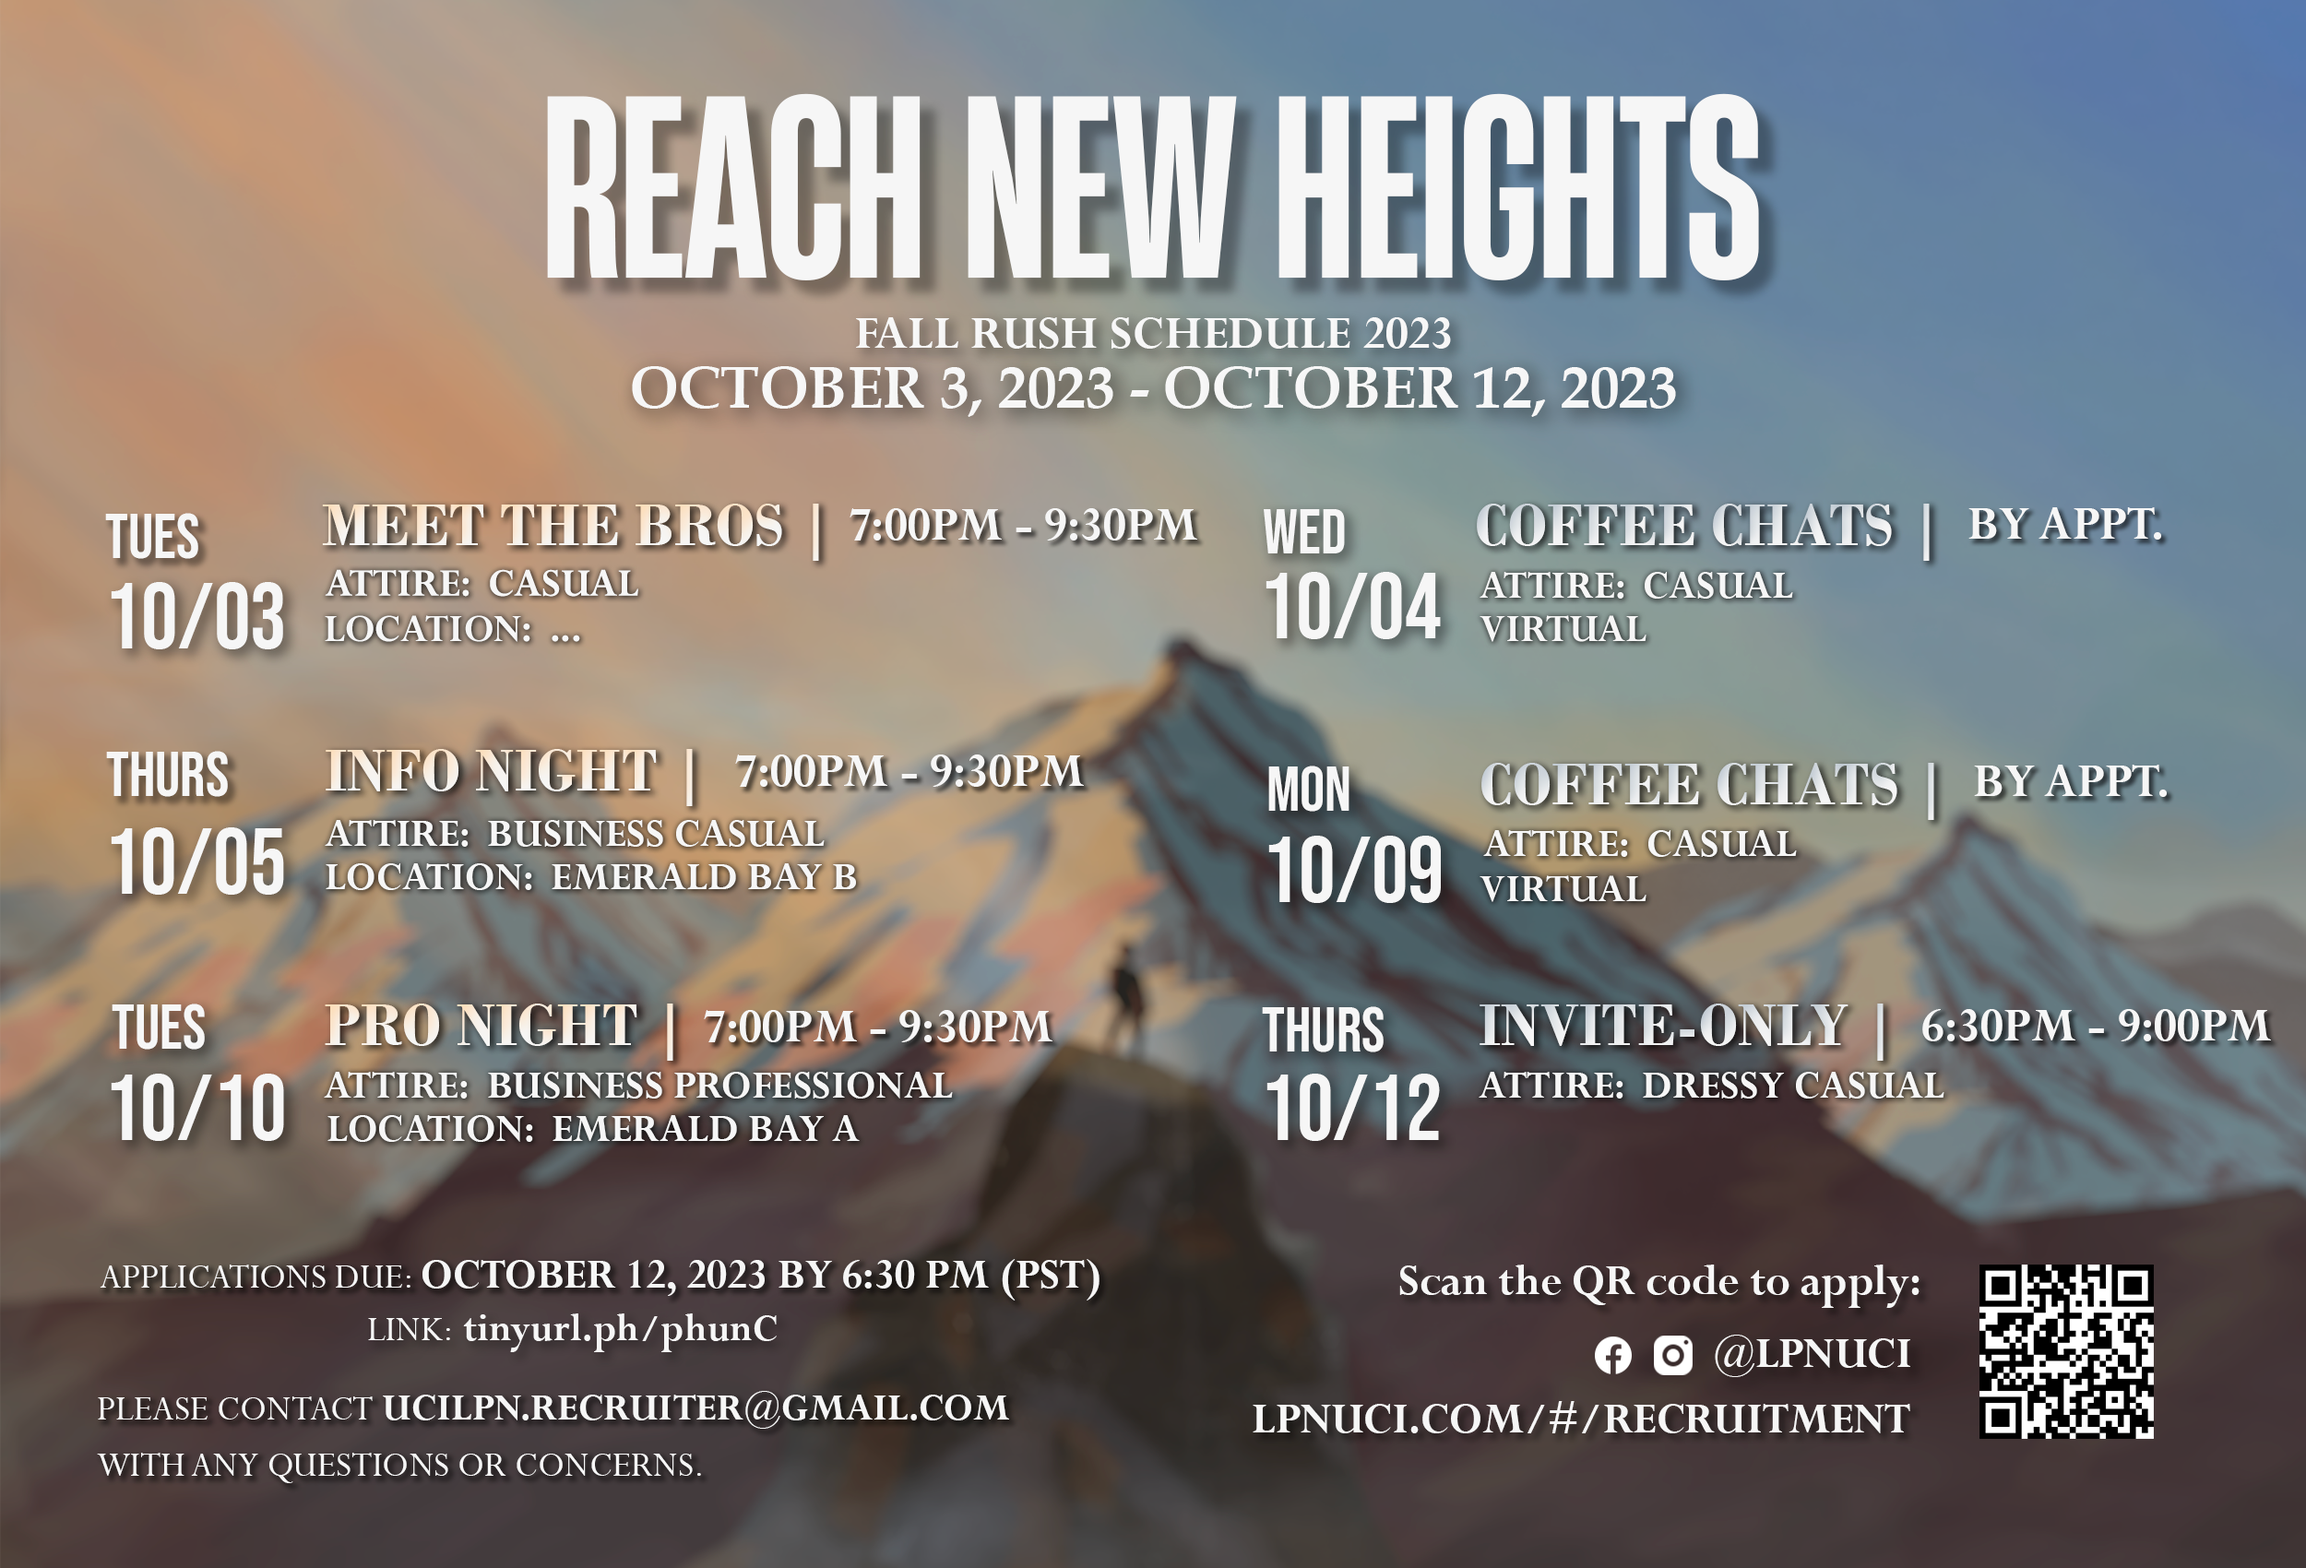
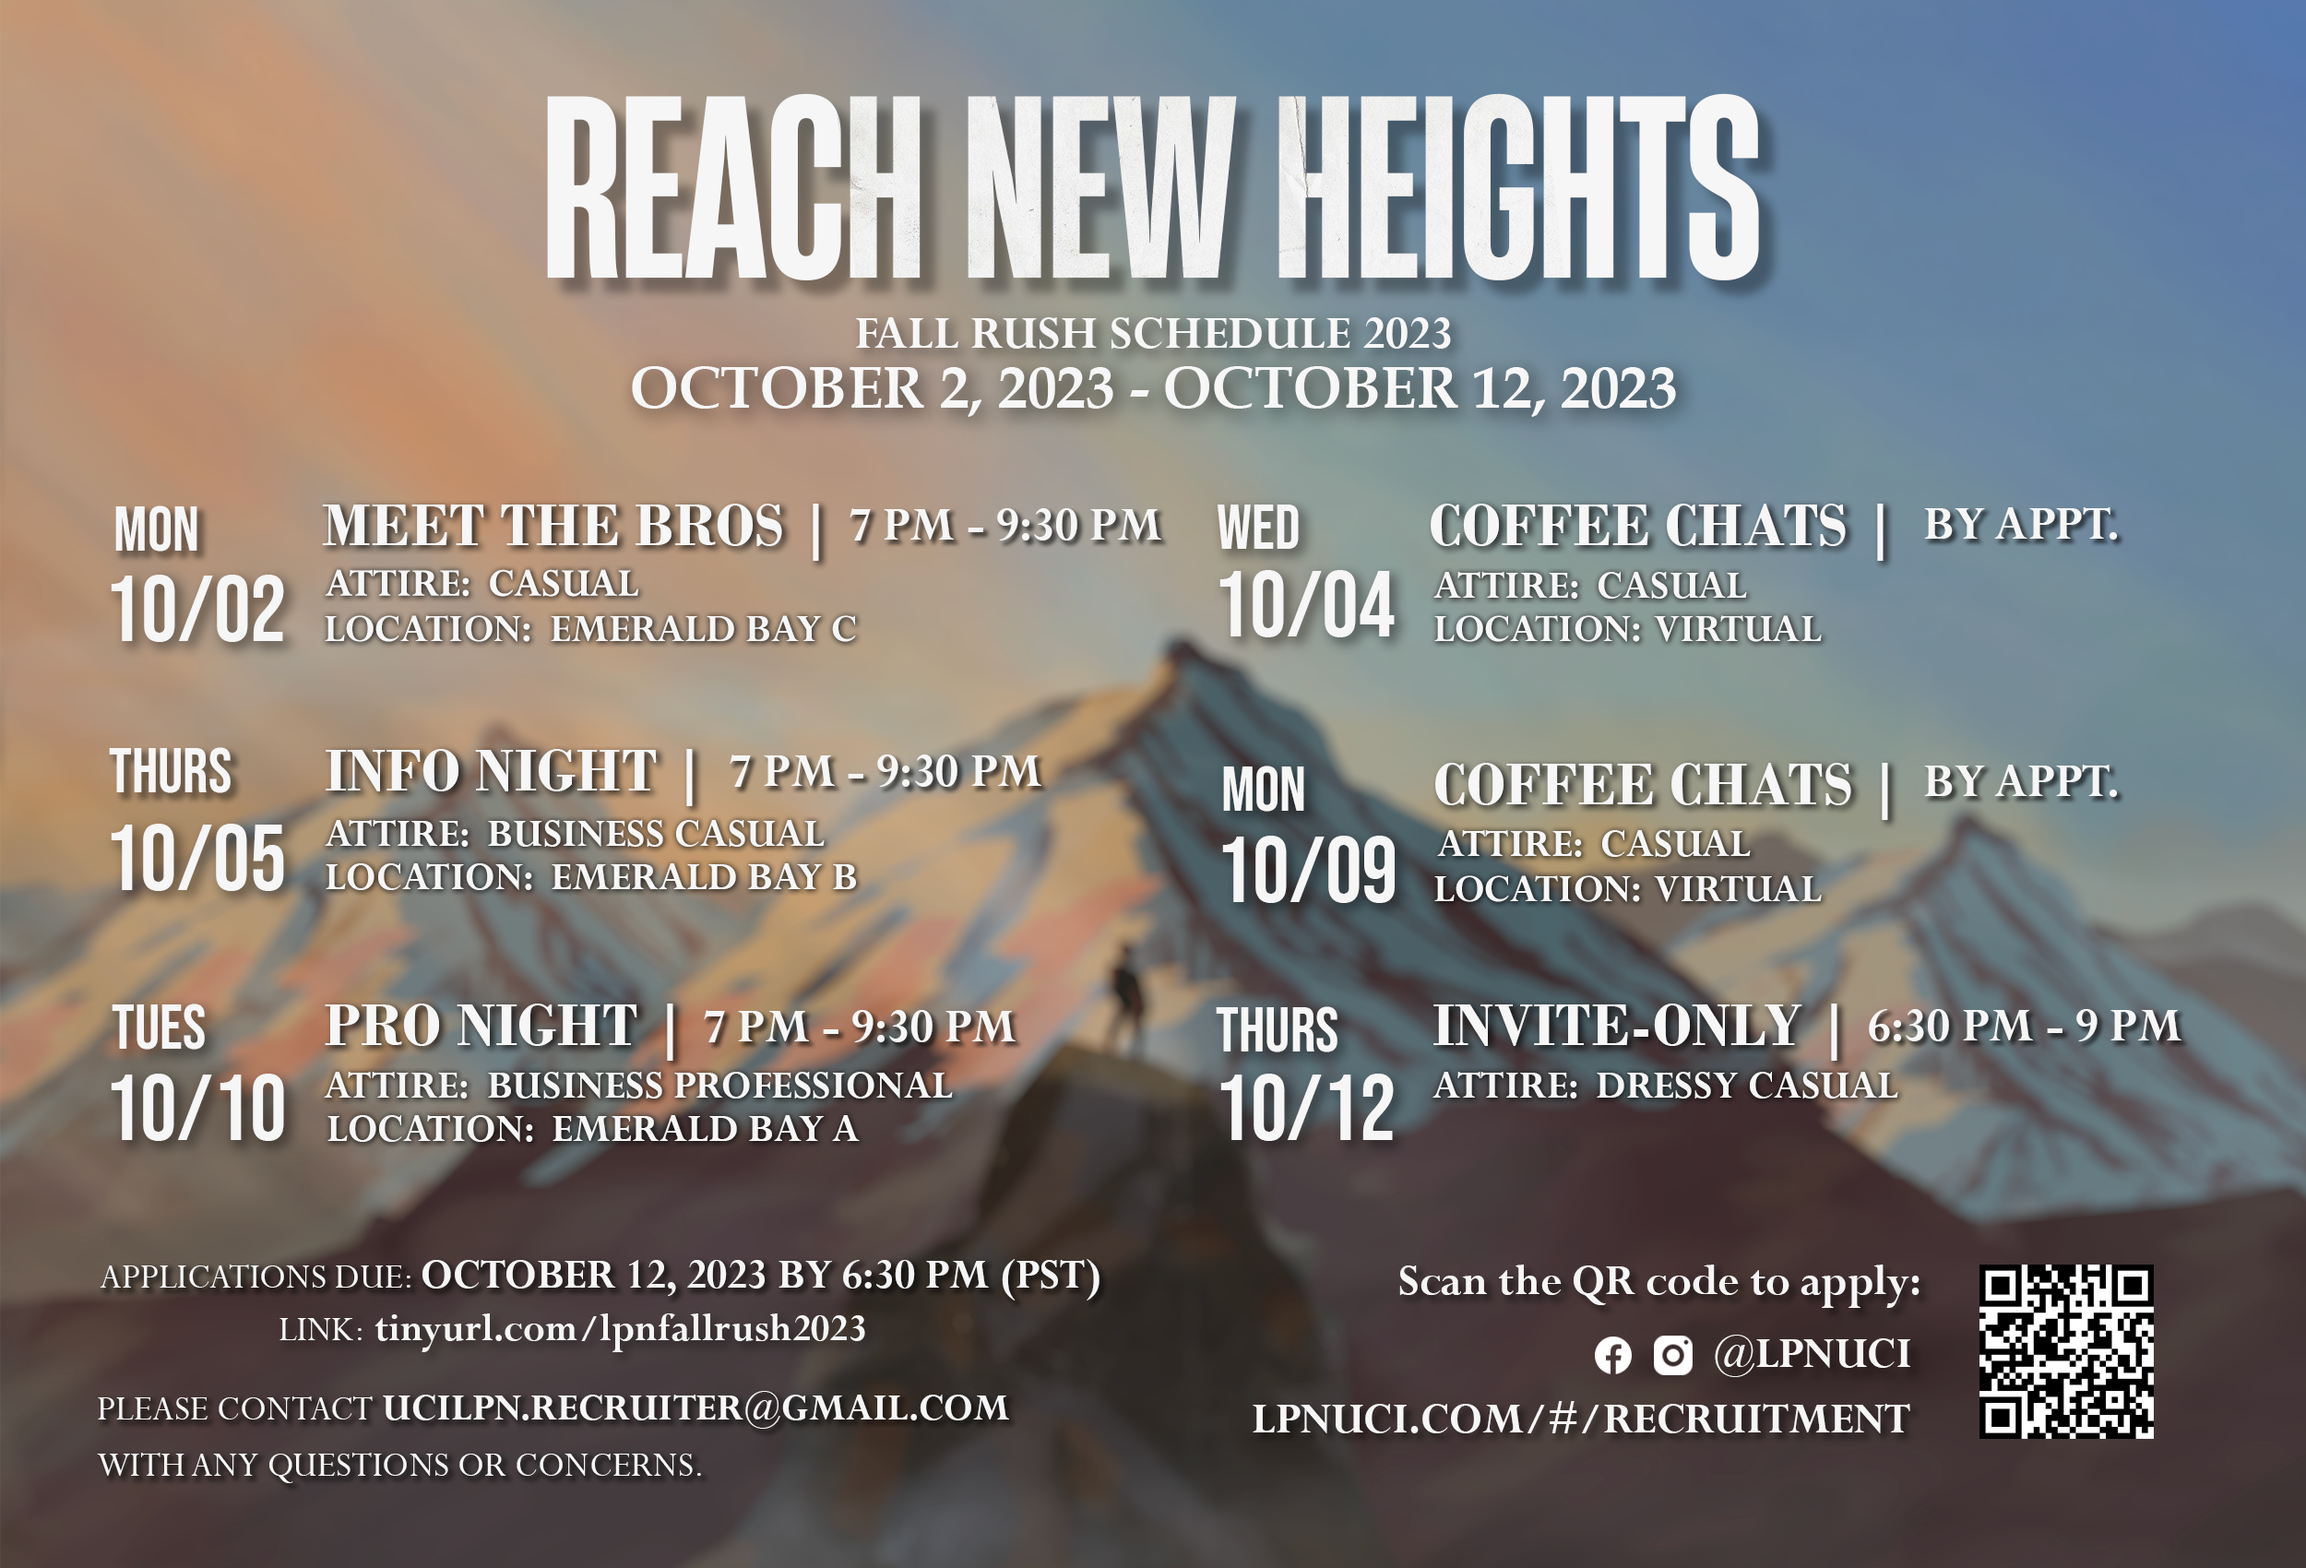
Fixed Rush Dates

diff --git a/src/components/pages/careers/CompanyLogos.js b/src/components/pages/careers/CompanyLogos.js
@@ -2,62 +2,70 @@ export const companyLogos = [
     {
         img: require('../../../assets/companyLogos/EY.png'),
         title: 'EY',
-        link: 'https://www.lpnuci.com/#/active-brothers/sydney-yu'
+        // link: 'https://www.lpnuci.com/#/active-brothers/sydney-yu'
+    },
+    {
+        img: require('../../../assets/companyLogos/Apsy_Transparent.png'),
+        title: 'Apsy',
     },
     {
         img: require('../../../assets/companyLogos/Accenture.png'),
         title: 'Accenture',
-        link: 'https://www.lpnuci.com/#/active-brothers/kayla-wong',
+        // link: 'https://www.lpnuci.com/#/active-brothers/kayla-wong',
+    },
+    {
+        img: require('../../../assets/companyLogos/Walmart.png'),
+        title: 'Walmart',
     },
     {
         img: require('../../../assets/companyLogos/Comcast_Black.png'),
         title: 'Comcast',
-        link: 'https://www.lpnuci.com/#/active-brothers/lilian-luu'
-    },
-    {
-        img: require('../../../assets/companyLogos/TikTok.png'),
-        title: 'TikTok',
-        link: 'https://www.lpnuci.com/#/active-brothers/kaylie-zhou'
+        // link: 'https://www.lpnuci.com/#/active-brothers/lilian-luu'
     },
     {
         img: require('../../../assets/companyLogos/Microsoft.png'),
         title: 'Microsoft',
-        link: 'https://www.lpnuci.com/#/active-brothers/ryan-miranda'
-    },   
+        // link: 'https://www.lpnuci.com/#/active-brothers/ryan-miranda'
+    },
+    {
+        img: require('../../../assets/companyLogos/Hajoca_Transparent.png'),
+        title: 'Hajoca',
+    },
+    {
+        img: require('../../../assets/companyLogos/Oppti.png'),
+        title: 'Oppti',
+    },
     {
         img: require('../../../assets/companyLogos/Deloitte.png'),
         title: 'Deloitte',
-        link: 'https://www.lpnuci.com/#/active-brothers/deena-toofan',
+        // link: 'https://www.lpnuci.com/#/active-brothers/deena-toofan',
     },
     {
         img: require('../../../assets/companyLogos/Salesforce.png'),
         title: 'Salesforce',
-        link: 'https://www.lpnuci.com/#/active-brothers/raymond-dinh'
+        // link: 'https://www.lpnuci.com/#/active-brothers/raymond-dinh'
     },
     {
-        img: require('../../../assets/companyLogos/CapitalOne.png'),
-        title: 'Capital One',
-        link: 'https://www.lpnuci.com/#/active-brothers/omar-naji',
+        img: require('../../../assets/companyLogos/Ingram_Micro_Transparent.png'),
+        title: 'Ingram Micro',
     },
     {
-        img: require('../../../assets/companyLogos/Adobe.png'),
-        title: 'Adobe',
-        link: 'https://www.lpnuci.com/#/active-brothers/kaylie-zhou'
+        img: require('../../../assets/companyLogos/UCI_Merage.png'),
+        title: 'Paul Merage School of Business',
     },
     {
-        img: require('../../../assets/companyLogos/JPMorgan.jpg'),
-        title: 'JP Morgan Chase & Co',
-        link: 'https://www.lpnuci.com/#/active-brothers/hanui-lee',
+        img: require('../../../assets/companyLogos/ServiceNow.png'),
+        title: 'Service Now',
     },
     {
         img: require('../../../assets/companyLogos/Amazon.png'),
         title: 'Amazon',
-        link: 'https://www.lpnuci.com/#/active-brothers/catherine-ngyuen'
+        // link: 'https://www.lpnuci.com/#/active-brothers/madhu-sharma'
     },
     {
         img: require('../../../assets/companyLogos/PwC.png'),
         title: 'PwC',
-        link: 'https://www.lpnuci.com/#/active-brothers/talia-yip',
+        // link: 'https://www.lpnuci.com/#/active-brothers/talia-yip',
     },
    
 ];

diff --git a/src/components/pages/rush/Recruitment.js b/src/components/pages/rush/Recruitment.js
@@ -115,7 +115,7 @@ export default function Winter2023({ setPage }) {
             <Box mb={2}>
                 <Typography component="div" className={classes.root}>
                     <Box fontWeight="fontWeightBold" fontSize="h2.fontSize" className={isMobile ? classes.content : ""}>
-                        <a href="https://www.facebook.com/events/1169425473670235" target="_blank" rel="noopener noreferrer" className={classes.highlightLink}>Fall Rush 2023</a>
+                        <a href="https://facebook.com/events/s/uci-lambda-phi-nu-fall-2023-re/1014564543000719/?mibextid=RQdjqZ" target="_blank" rel="noopener noreferrer" className={classes.highlightLink}>Fall Rush 2023</a>
                     </Box>
                     <Box fontWeight="fontWeighMedium" fontSize="h4.fontSize" mt={1} className={classes.content}>
                         Chi Class Recruitment
@@ -123,7 +123,7 @@ export default function Winter2023({ setPage }) {
                 </Typography>
             </Box>
             
-            <a href="https://www.facebook.com/events/1169425473670235" target="_blank" rel="noopener noreferrer">
+            <a href="https://facebook.com/events/s/uci-lambda-phi-nu-fall-2023-re/1014564543000719/?mibextid=RQdjqZ" target="_blank" rel="noopener noreferrer">
                 <img src={flyer} className={isMobile ? classes.coverMobile : classes.cover} alt="Fall Rush 2023"></img>
             </a>
 

diff --git a/src/components/pages/rush/RushEvents.js b/src/components/pages/rush/RushEvents.js
@@ -1,13 +1,13 @@
 export const events = [
     {
         title: "Meet the Bros",
-        date: "10/03",
+        date: "10/02",
         description: "Come meet our brothers through a night of fun games and chats!",
         dressCode: "Casual",
         ics: "",
         // checkinLink: 'https://tinyurl.com/lpninfonight',
         time: "7:00PM - 9:30PM",
-        location: "Doheny Beach B",
+        location: "Emerald Bay C",
         eventTooltip: "Zoom Check In"
     },  
     {
@@ -23,7 +23,7 @@ export const events = [
     },
     {
         title: "Coffee Chats",
-        date: "10/04, 10/19",
+        date: "10/04, 10/09",
         description: "Get to know our brothers through a 1 on 1 casual coffee chat!",
         dressCode: "Casual",
         ics: "",

diff --git a/src/components/pages/careers/Careers.js b/src/components/pages/careers/Careers.js
@@ -156,9 +156,7 @@ export default function Careers({ setPage }) {
             <Grid container direction="row" justifyContent="center" alignItems="center" className={classes.logoGrid} spacing={3}>
                 {companyLogos.map((tile) => (
                     <Grid item xs key={tile.img}>
-                        <a href={tile.link} target="_blank" rel="noopener noreferrer">
-                            <img src={tile.img} alt={tile.title} className={isMobile ? classes.mobileImage : classes.image} />
-                        </a>
+                        <img src={tile.img} alt={tile.title} className={isMobile ? classes.mobileImage : classes.image} />
                     </Grid>
                 ))}
             </Grid>
